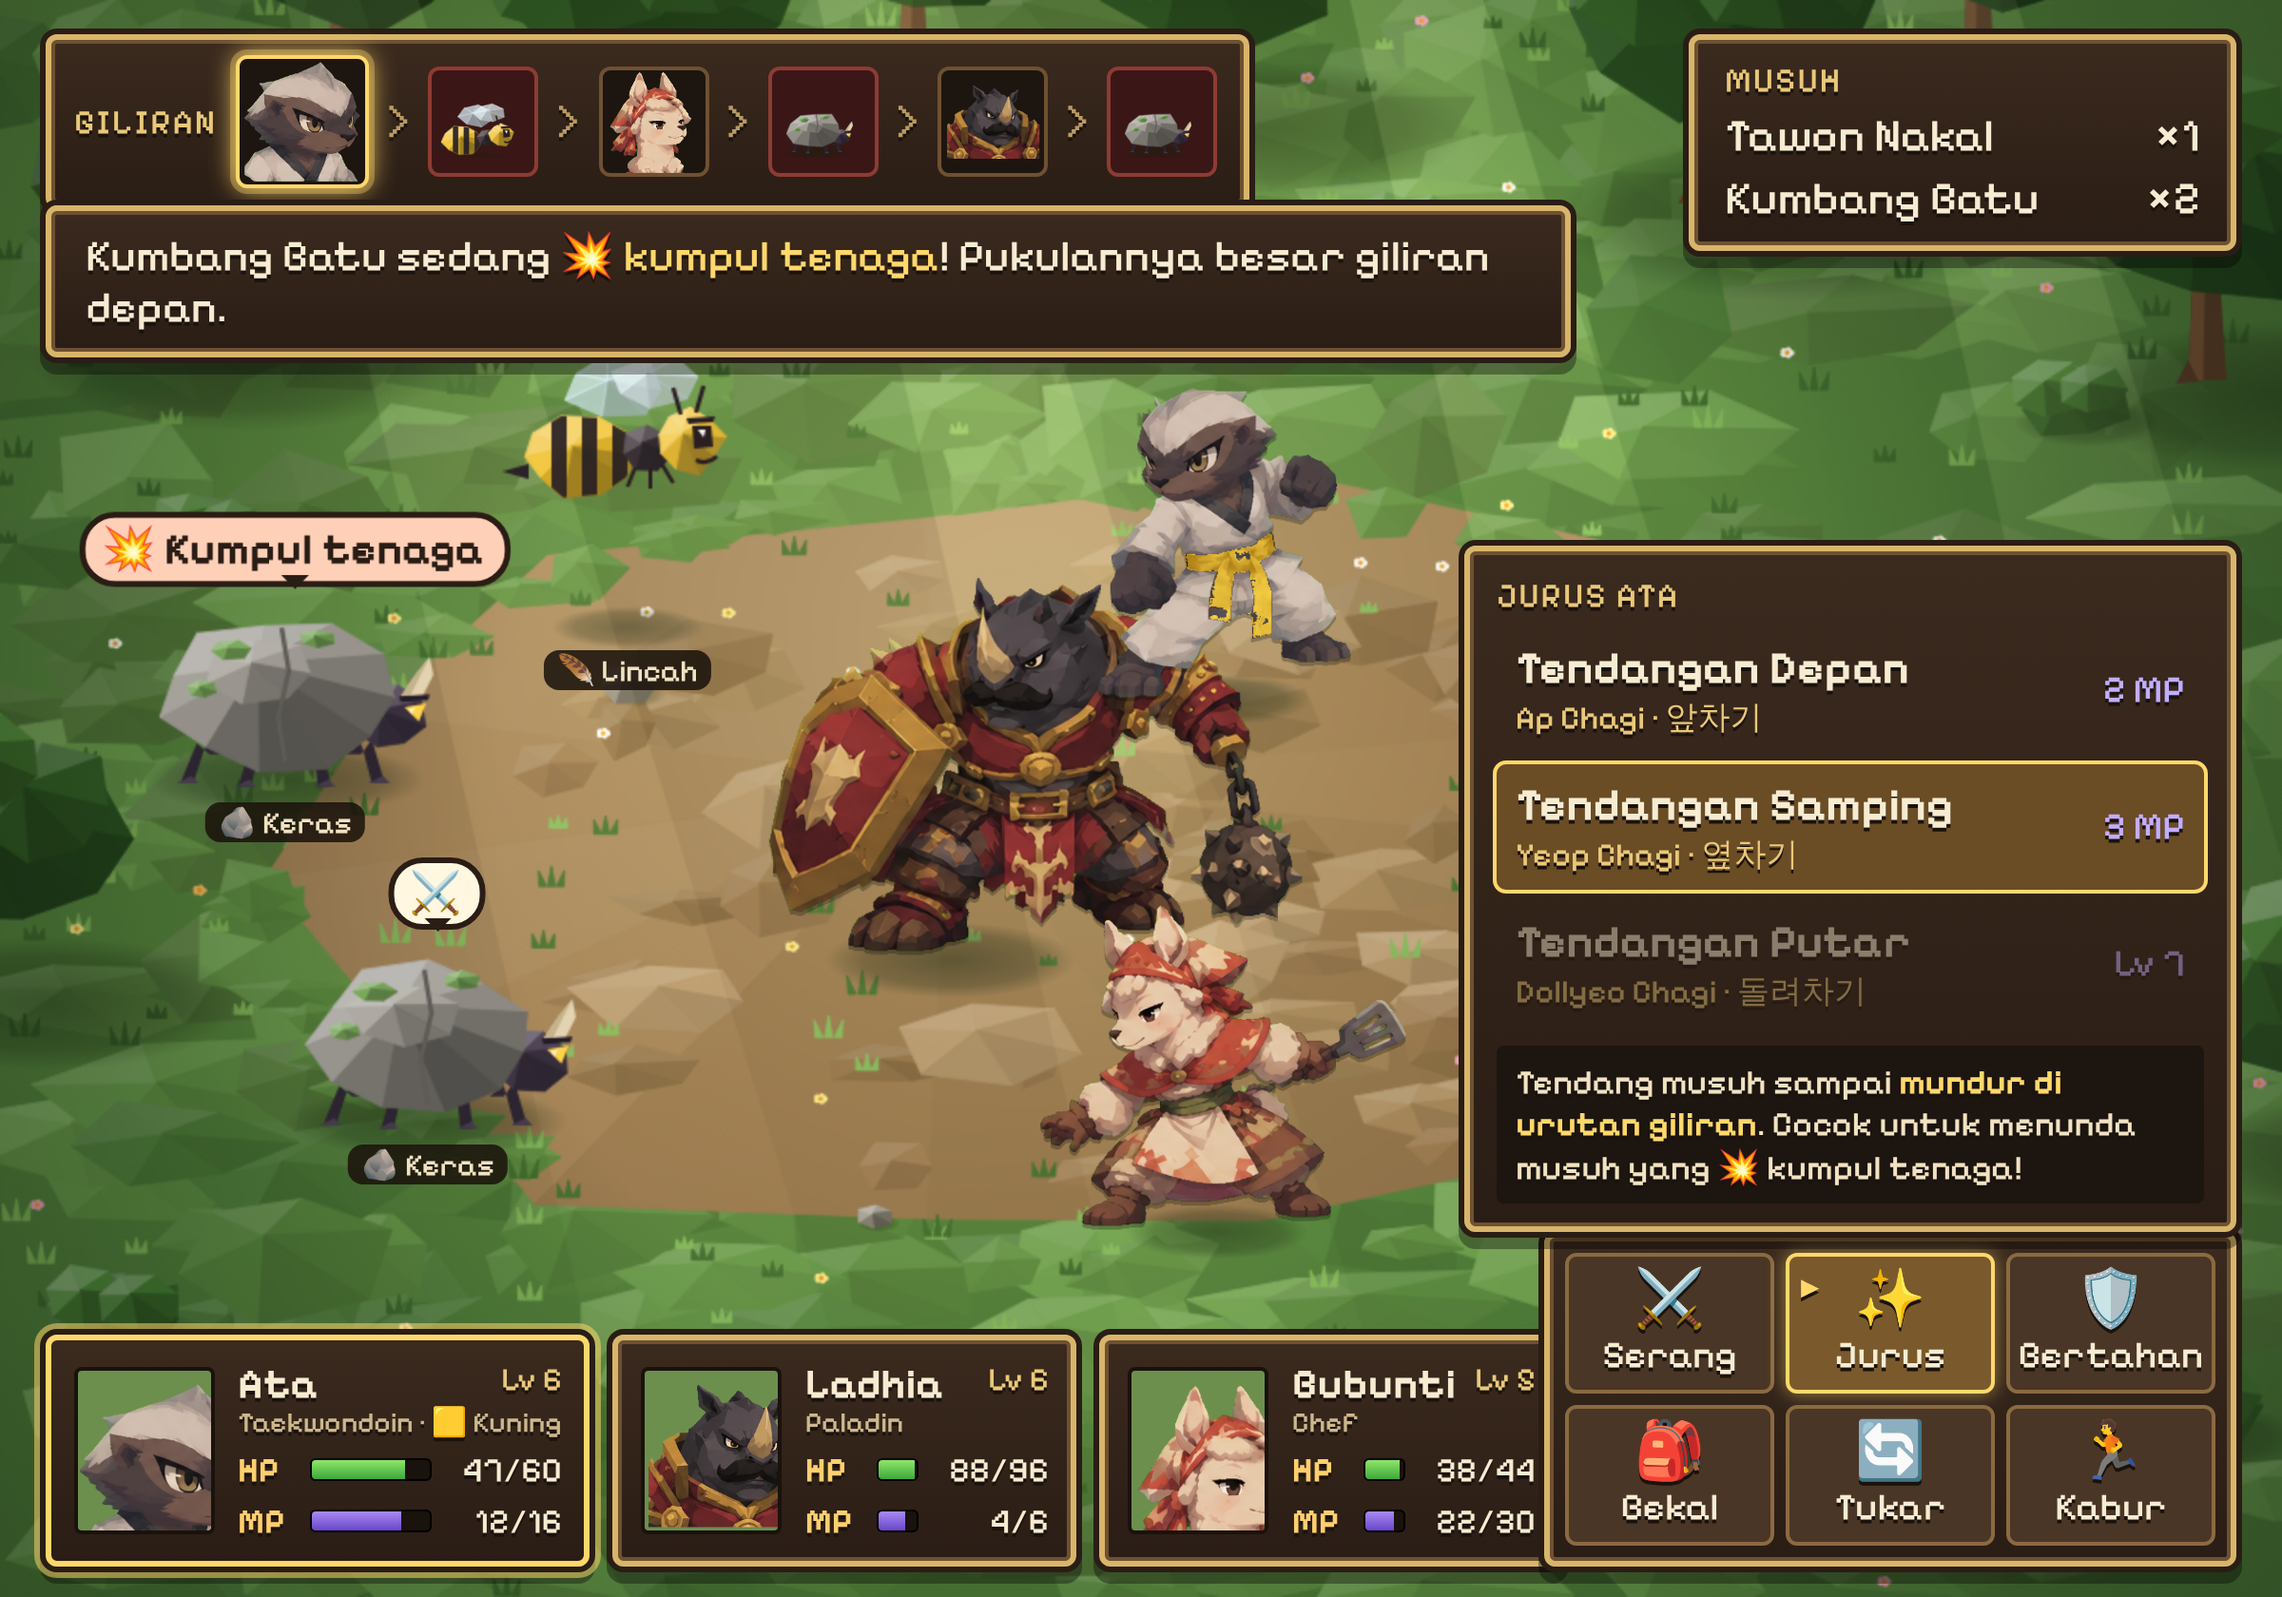
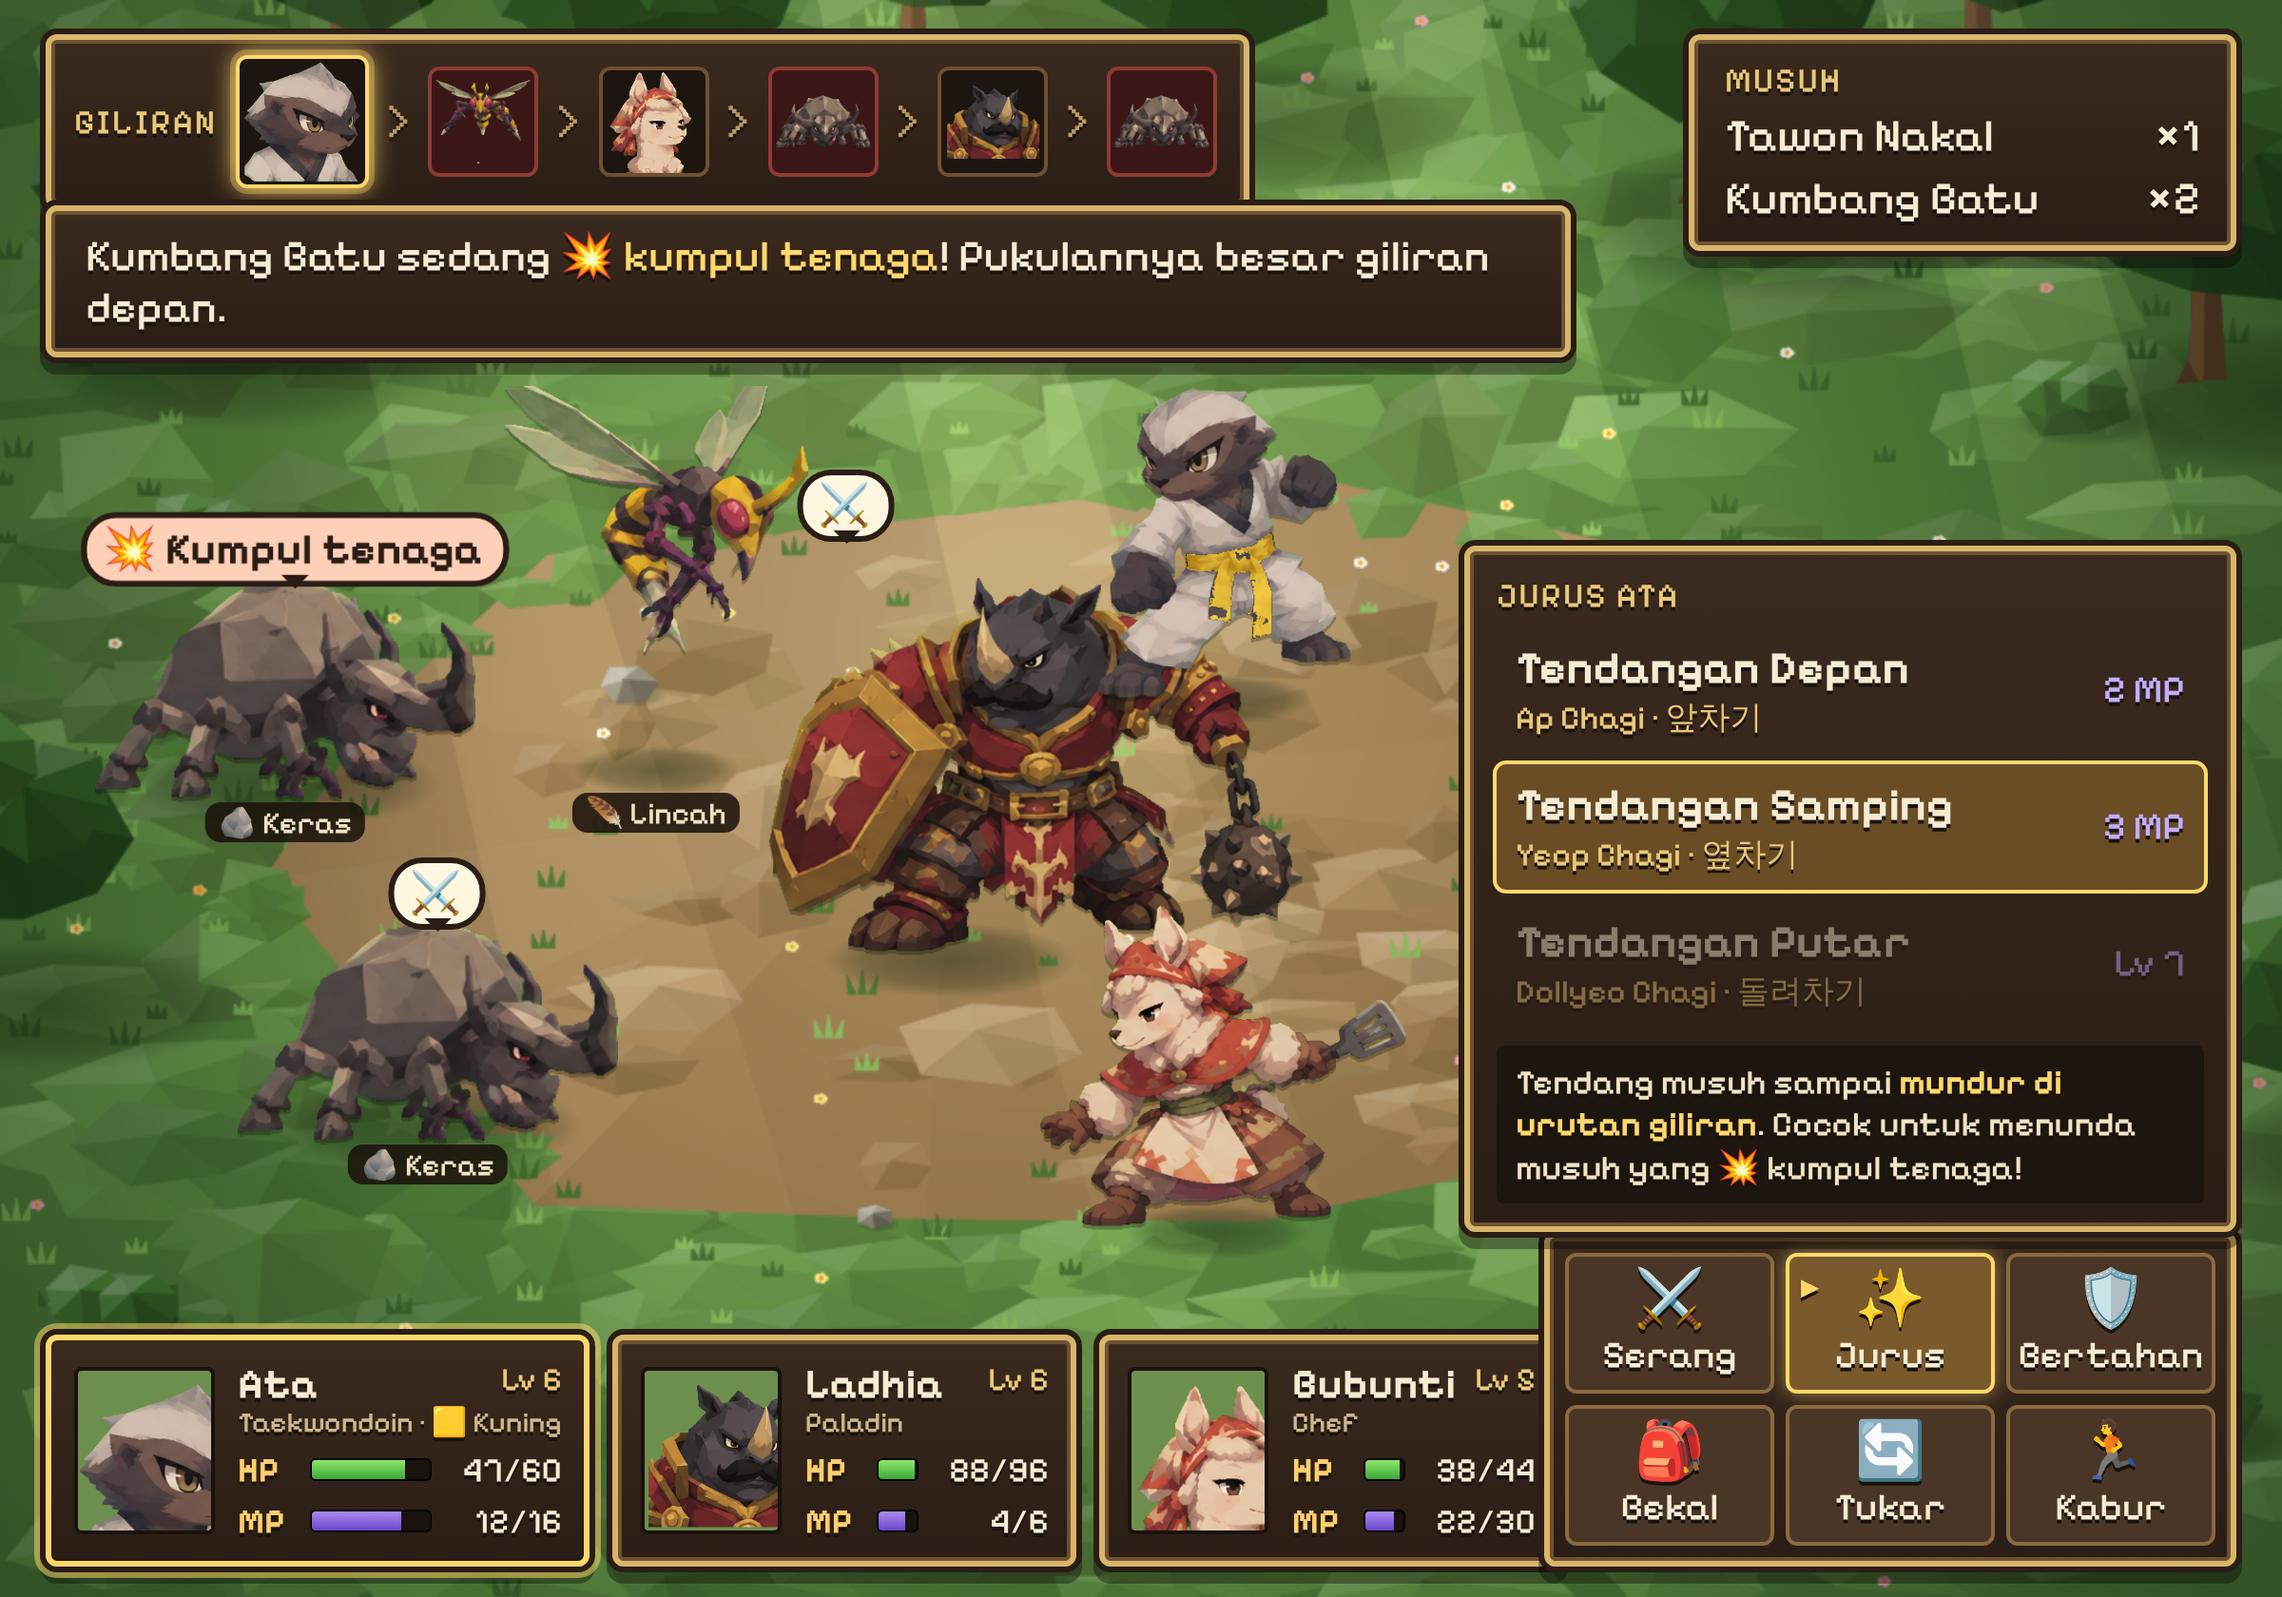
Musuh dari pengguna (8 jenis) dipotong & dipasang di mockup + layar bos
Claude-Session: https://claude.ai/code/session_012A5oLvFsQThBvFkQXBRdxZ

diff --git a/pohon-madu/mockup/index.html b/pohon-madu/mockup/index.html
@@ -101,8 +101,6 @@
 const stage = document.getElementById('stage');
 const q = new URLSearchParams(location.search).get('s') || 'pilih';
 const g = cv.getContext('2d');
-const KB = LP.icon((c, x, y, s) => LP.kumbang(c, x, y, s), 120, 90, 52, 82, 0.55);
-const TW = LP.icon((c, x, y, s, h) => LP.tawon(c, x, y, s, h), 120, 90, 56, 92, 0.85);
 
 // ---- sabuk: warna diganti saat runtime (piksel gelap netral di area sabuk) ----
 const BELT = {
@@ -155,10 +153,10 @@ function partyCards(now, mp) {
 function battleBase(hit) {
   LP.battle(g, 1200, 840);
   // musuh (kiri, menghadap kanan)
-  LP.kumbang(g, 150, 410, 0.95);
-  LP.kumbang(g, 225, 590, 0.95);
-  const tw = hit ? [380, 380] : [330, 330];
-  LP.tawon(g, tw[0], tw[1], 1, 80);
+  shadow(150, 412, 82); char('musuh/kumbang-2', 150, 420, 118);
+  shadow(225, 592, 82); char('musuh/kumbang-2', 225, 600, 118);
+  const tw = hit ? [380, 380] : [345, 405];
+  shadow(tw[0], tw[1], 44); char('musuh/tawon-4', tw[0], tw[1] - 62, 140);
   // tim (kanan, menghadap kiri)
   const lx = hit ? 640 : 500, ly = hit ? 585 : 505;
   if (hit) { shadow(578, 433, 50); img(ata('tendang', BELT_NOW), 422, 433 - 178, 178, 'flip'); }
@@ -167,16 +165,16 @@ function battleBase(hit) {
   const bx = hit ? 790 : 640; shadow(bx, 648, 48); img(IMG['bubunti/siaga'].src, bx - 95, 648 - 175, 175, 'flip');
   ui('💥 Kumpul tenaga', 'intent big', at(155, 308));
   ui('⚔', 'intent', at(230, 489));
-  if (!hit) ui('⚔', 'intent', at(tw[0] + 8, tw[1] - 150));
+  if (!hit) ui('⚔', 'intent', at(tw[0] + 100, tw[1] - 120));
   ui('🪨 Keras', 'tipe', at(150, 422)); ui('🪨 Keras', 'tipe', at(225, 602)); if (!hit) ui('🪶 Lincah', 'tipe', at(tw[0], tw[1] + 12));
-  const faces = { a: ata('wajah'), k: KB, t: TW, l: IMG['ladhia/wajah'].src, b: IMG['bubunti/wajah'].src };
+  const faces = { a: ata('wajah'), k: IMG['musuh/kumbang-1'].src, t: IMG['musuh/tawon-1'].src, l: IMG['ladhia/wajah'].src, b: IMG['bubunti/wajah'].src };
   const order = hit ? [['k', 'now'], ['b'], ['l'], ['k'], ['t', '', '⬇']] : [['a', 'now'], ['t'], ['b'], ['k'], ['l'], ['k']];
   ui('<span class="lbl">GILIRAN</span>' + order.map(([k, c, mv], i) =>
     (i ? '<span class="arrow">›</span>' : '') + `<div class="face ${c || ''} ${'ktb'.includes(k) && k !== 'b' ? 'foe' : ''}"><img src="${faces[k]}" style="image-rendering:auto">${mv ? `<span class="mv">${mv}</span>` : ''}</div>`).join(''), 'box', {}).id = 'turn';
   ui('<div class="lbl">MUSUH</div><div class="row"><span>Tawon Nakal</span><span>×1</span></div><div class="row"><span>Kumbang Batu</span><span>×2</span></div>', 'box', {}).id = 'foes';
 }
 
-Promise.all(['siaga', 'tendang', 'kanan', 'depan', 'wajah', 'ladhia/siaga', 'ladhia/wajah', 'ladhia/kanan', 'bubunti/siaga', 'bubunti/wajah', 'bubunti/kanan'].map(load)).then(() => {
+Promise.all(['siaga', 'tendang', 'kanan', 'depan', 'wajah', 'ladhia/siaga', 'ladhia/wajah', 'ladhia/kanan', 'bubunti/siaga', 'bubunti/wajah', 'bubunti/kanan', 'musuh/kumbang-1', 'musuh/kumbang-2', 'musuh/tawon-1', 'musuh/tawon-4', 'musuh/raja-kumbang-2', 'musuh/raja-kumbang-1', 'ladhia/bertahan'].map(load)).then(() => {
 if (q === 'pilih') {
   battleBase(false);
   partyCards(true, 12);
@@ -198,7 +196,7 @@ if (q === 'pilih') {
   ui('Ata: <em>Tendangan Samping!</em> &nbsp;Tawon Nakal terdorong ke belakang antrean ⬇', 'box', {}).id = 'msg';
 } else if (q === 'jelajah') {
   LP.jelajah(g, 1200, 840);
-  LP.kumbang(g, 965, 330, 0.8);
+  shadow(965, 330, 62); char('musuh/kumbang-2', 965, 338, 92);
   shadow(335, 625, 36); img(IMG['bubunti/kanan'].src, 335 - 42, 625 - 150, 150);
   shadow(475, 583, 46); img(IMG['ladhia/kanan'].src, 475 - 62, 583 - 170, 170);
   shadow(640, 492, 36); img(ata('kanan', BELT_NOW), 640 - 46, 492 - 150, 150);
@@ -212,6 +210,29 @@ if (q === 'pilih') {
   ui('Dekati dari belakang = <b style="color:#ffd86b">Serangan Kejutan!</b>', 'box tag', at(930, 420));
   ui('', '', {}).id = 'stick';
   ui('A', '', {}).id = 'btnA';
+} else if (q === 'bos') {
+  LP.battle(g, 1200, 840);
+  shadow(240, 590, 170); char('musuh/raja-kumbang-2', 240, 600, 340, true);
+  shadow(690, 352, 44); img(ata('siaga', BELT_NOW), 690 - 68, 352 - 165, 165, 'flip');
+  shadow(540, 520, 66); img(IMG['ladhia/siaga'].src, 540 - 100, 520 - 205, 205, 'flip');
+  shadow(660, 648, 48); img(IMG['bubunti/siaga'].src, 660 - 95, 648 - 175, 175, 'flip');
+  ui('💥 Kumpul tenaga', 'intent big', at(240, 252));
+  ui('🪨 Keras · 👑 Bos', 'tipe', at(240, 606));
+  const faces = { a: ata('wajah'), r: IMG['musuh/raja-kumbang-1'].src, l: IMG['ladhia/wajah'].src, b: IMG['bubunti/wajah'].src };
+  ui('<span class="lbl">GILIRAN</span>' + [['l', 'now'], ['r'], ['a'], ['b']].map(([k, c], i) =>
+    (i ? '<span class="arrow">›</span>' : '') + `<div class="face ${c || ''} ${k === 'r' ? 'foe' : ''}"><img src="${faces[k]}" style="image-rendering:auto">`+'</div>').join(''), 'box', {}).id = 'turn';
+  ui('<div class="lbl">BOS</div><div class="row"><span>Raja Kumbang</span><span>Fase 1</span></div><div class="bar hp" style="margin-top:6px"><b>HP</b><div class="t"><i style="width:64%;background:linear-gradient(#ff9a6a,#d0452f)"></i></div></div>', 'box', {}).id = 'foes';
+  const p = ui('', '', {}); p.id = 'party';
+  p.innerHTML = card(ata('wajah'), 'Ata', 7, 'Taekwondoin · 🟨 Kuning', 41, 64, 10, 17)
+    + card(IMG['ladhia/wajah'].src, 'Ladhia', 7, 'Paladin', 90, 104, 6, 7, true)
+    + card(IMG['bubunti/wajah'].src, 'Bubunti', 6, 'Chef', 30, 48, 19, 33);
+  ui(`<div class="btn"><span class="ic">⚔</span>Serang</div><div class="btn sel"><span class="ic">✨</span>Jurus</div><div class="btn"><span class="ic">🛡</span>Bertahan</div><div class="btn"><span class="ic">🎒</span>Bekal</div><div class="btn"><span class="ic">🔄</span>Tukar</div><div class="btn"><span class="ic">🏃</span>Kabur</div>`, 'box', {}).id = 'menu';
+  ui(`<div class="lbl">JURUS LADHIA</div>
+    <div class="j sel"><b>🛡 Lindungi</b><span class="mpc">1 MP</span><i>Menerima pukulan untuk satu teman</i></div>
+    <div class="j"><b>☄ Hantaman Meteor</b><span class="mpc">2 MP</span><i>Pukulan berat · ampuh ke 🪨 Keras</i></div>
+    <div class="j off"><b>📣 Tantang</b><span class="mpc">Lv 8</span><i>Semua musuh mengincar Ladhia</i></div>
+    <div class="desc">Raja Kumbang akan memukul keras! Lindungi <b style="color:#ffd86b">Bubunti</b> yang HP-nya paling sedikit.</div>`, 'box', {}).id = 'jurus';
+  ui('Raja Kumbang <em>💥 kumpul tenaga</em> untuk Hantaman Mahkota!', 'box', {}).id = 'msg';
 } else if (q === 'sabuk') {
   LP.jelajah(g, 1200, 840); g.fillStyle = 'rgba(10,8,5,.55)'; g.fillRect(0, 0, cv.width, cv.height);
   const L = [['putih', 'Sabuk Putih', 'Lv 1'], ['kuning', 'Sabuk Kuning', 'Lv 5'], ['hijau', 'Sabuk Hijau', 'Lv 10'],

diff --git a/pohon-madu/ASET.md b/pohon-madu/ASET.md
@@ -1,6 +1,6 @@
 # Daftar aset gambar — Ata dan Pohon Madu Legendaris
 
-Prioritas: ⭐ = dibutuhkan dulu (Prolog, Bab 1, Bab 2). Sisanya menyusul per bab.
+Prioritas: ⭐ = dibutuhkan dulu (Prolog, Bab 1, Bab 2). Sisanya menyusul per bab. ✅ = sudah ada (`img/musuh/<nama>-N.png`; N = sudut pandang, pose serang/kena/kalah dibuat dengan animasi).
 
 ## Format umum
 - **Gaya** sama dengan sprite Ata/Ladhia/Bubunti (low-poly lembut), **sudut pandang miring 3/4** dari atas.
@@ -15,14 +15,14 @@ Prioritas: ⭐ = dibutuhkan dulu (Prolog, Bab 1, Bab 2). Sisanya menyusul per ba
 
 | Bab | Musuh | Tipe | Ide |
 |---|---|---|---|
-| ⭐ Prolog | Kumbang Batu | 🪨 Keras | kumbang bercangkang batu berlumut, cemberut |
-| ⭐ Prolog | Tawon Nakal | 🪶 Lincah | tawon jahil, alis nakal |
-| ⭐ Prolog | Siput Lendir | 🪨 Keras | siput lambat, cangkang tebal, malas |
-| ⭐ Prolog — Bos | **Raja Kumbang** | 🪨 Keras | kumbang batu besar bermahkota kerikil (ujian akhir Prolog) |
-| ⭐ Bab 1 | Kadal Kerikil | 🪨 Keras | kadal bersisik batu |
-| ⭐ Bab 1 | Kelelawar Tambang | 🪶 Lincah | kelelawar kecil membawa lentera kecil |
-| ⭐ Bab 1 | Musang Bayangan | 🌑 Bayangan | anggota gerombolan pencuri, berselendang gelap |
-| ⭐ Bab 1 — Bos tengah | **Landak Baja** | 🪨 Keras | landak berduri logam, menggulung |
+| ⭐ Prolog | Kumbang Batu ✅ | 🪨 Keras | kumbang bercangkang batu berlumut, cemberut |
+| ⭐ Prolog | Tawon Nakal ✅ | 🪶 Lincah | tawon jahil, alis nakal |
+| ⭐ Prolog | Siput Lendir ✅ | 🪨 Keras | siput lambat, cangkang tebal, malas |
+| ⭐ Prolog — Bos | **Raja Kumbang** ✅ | 🪨 Keras | kumbang batu besar bermahkota kerikil (ujian akhir Prolog) |
+| ⭐ Bab 1 | Kadal Kerikil ✅ | 🪨 Keras | kadal bersisik batu |
+| ⭐ Bab 1 | Kelelawar Tambang ✅ | 🪶 Lincah | kelelawar kecil membawa lentera kecil |
+| ⭐ Bab 1 | Musang Bayangan ✅ | 🌑 Bayangan | anggota gerombolan pencuri, berselendang gelap |
+| ⭐ Bab 1 — Bos tengah | **Landak Baja** ✅ | 🪨 Keras | landak berduri logam, menggulung |
 | ⭐ Bab 1 — Bos | **Kepala Musang** | 🌑 Bayangan | ketua gerombolan, jubah & karung curian; fase 2 memanggil bayangan |
 | ⭐ Bab 2 | Katak Lumpur | 🪨 Keras | katak berbalut lumpur kering |
 | ⭐ Bab 2 | Nyamuk Rawa | 🪶 Lincah | nyamuk gendut berdengung |
